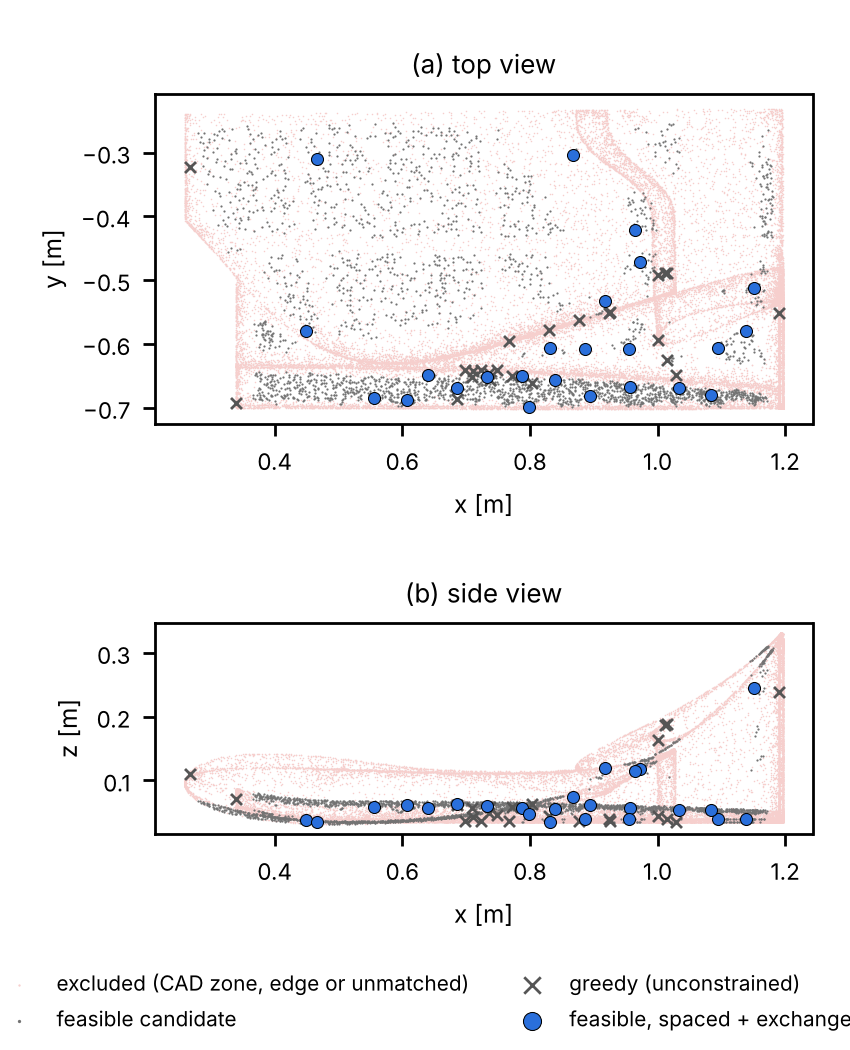
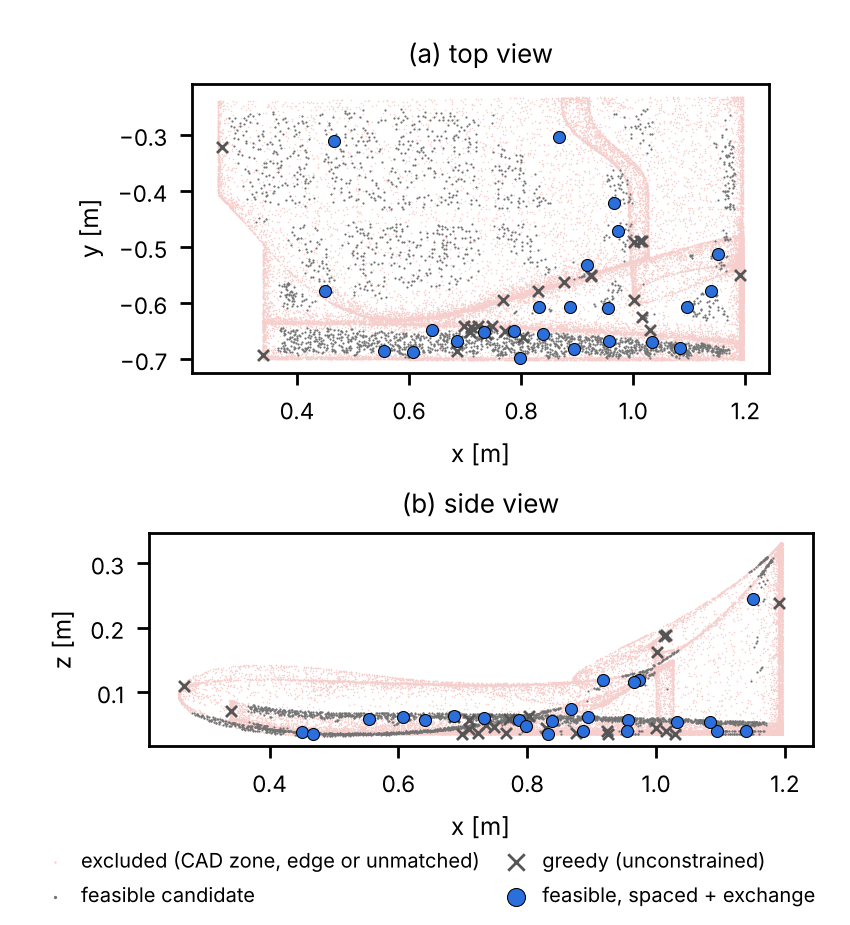
Validate feasible layout (LOO and straight-to-corner) and tidy figure legend
Claude-Session: https://claude.ai/code/session_01KHaXvzMrGhEdco8axYzKwN

Changed region(s): [[0.0306, 0.0303, 1.0, 0.9989]]

diff --git a/experiments/feasible_layout.py b/experiments/feasible_layout.py
@@ -268,7 +268,7 @@ def plot(coords, F, L, out):
     axs[0].set_title("(a) top view", fontsize=7.5)
     axs[1].set_title("(b) side view", fontsize=7.5)
     h, l = axs[0].get_legend_handles_labels()
-    fig.legend(h, l, fontsize=6, frameon=False, loc="lower center", ncol=2, markerscale=1.5)
+    fig.legend(h, l, fontsize=5.8, frameon=False, loc="lower center", ncol=2, markerscale=1.5, columnspacing=0.8, handletextpad=0.3)
     fig.tight_layout(rect=(0, 0.07, 1, 1))
     fig.savefig(out, dpi=250)
 
